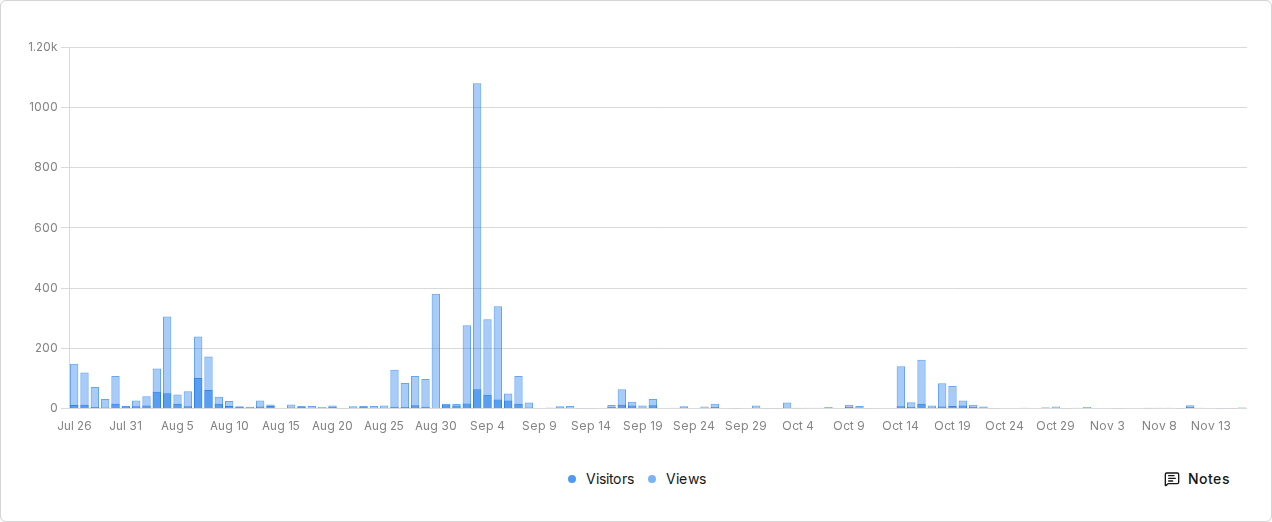
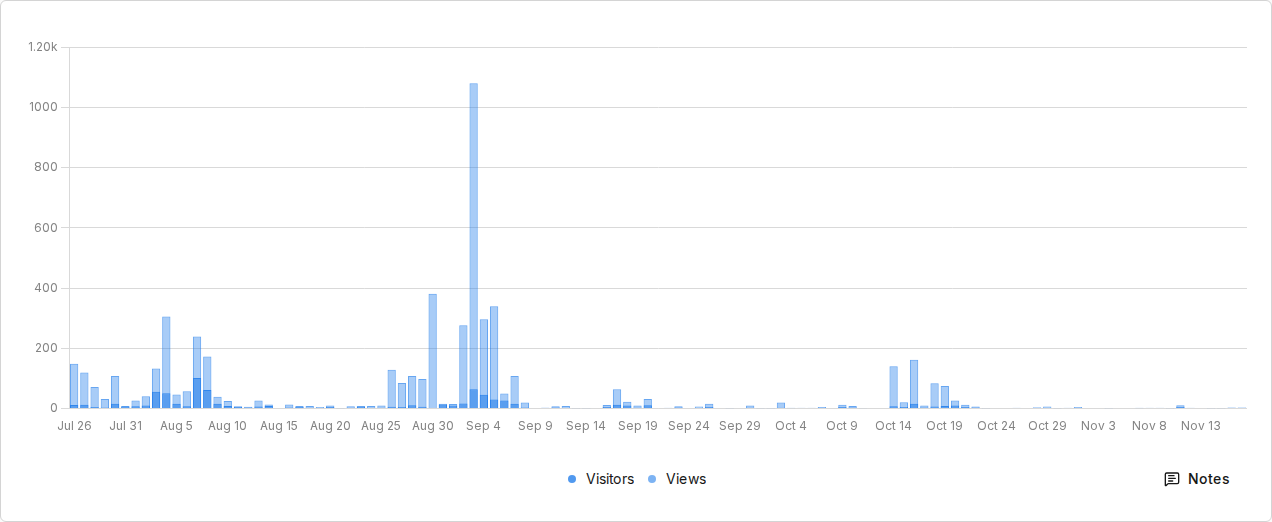
chore: refresh Umami analytics snapshot
Umami-Run: 44232293564
Umami-Source: 06a4fb3c627ef606d56f7397f8c900afb7fc65f7
Umami-Mode: production

Changed region(s): [[0.092, 0.1533, 0.9811, 0.8276]]

diff --git a/README.md b/README.md
@@ -28,7 +28,7 @@ Start with an original backing track, explore its key and chord shapes, then org
 
 Daily Umami analytics snapshot for Jam Tracks Hub.
 
-Last updated: Nov 17, 2026, 12:28 PM
+Last updated: Nov 18, 2026, 11:43 AM
 
 <p align="center">
   <img src="assets/analytics/umami-dashboard.png" alt="Umami analytics dashboard" width="100%" />
